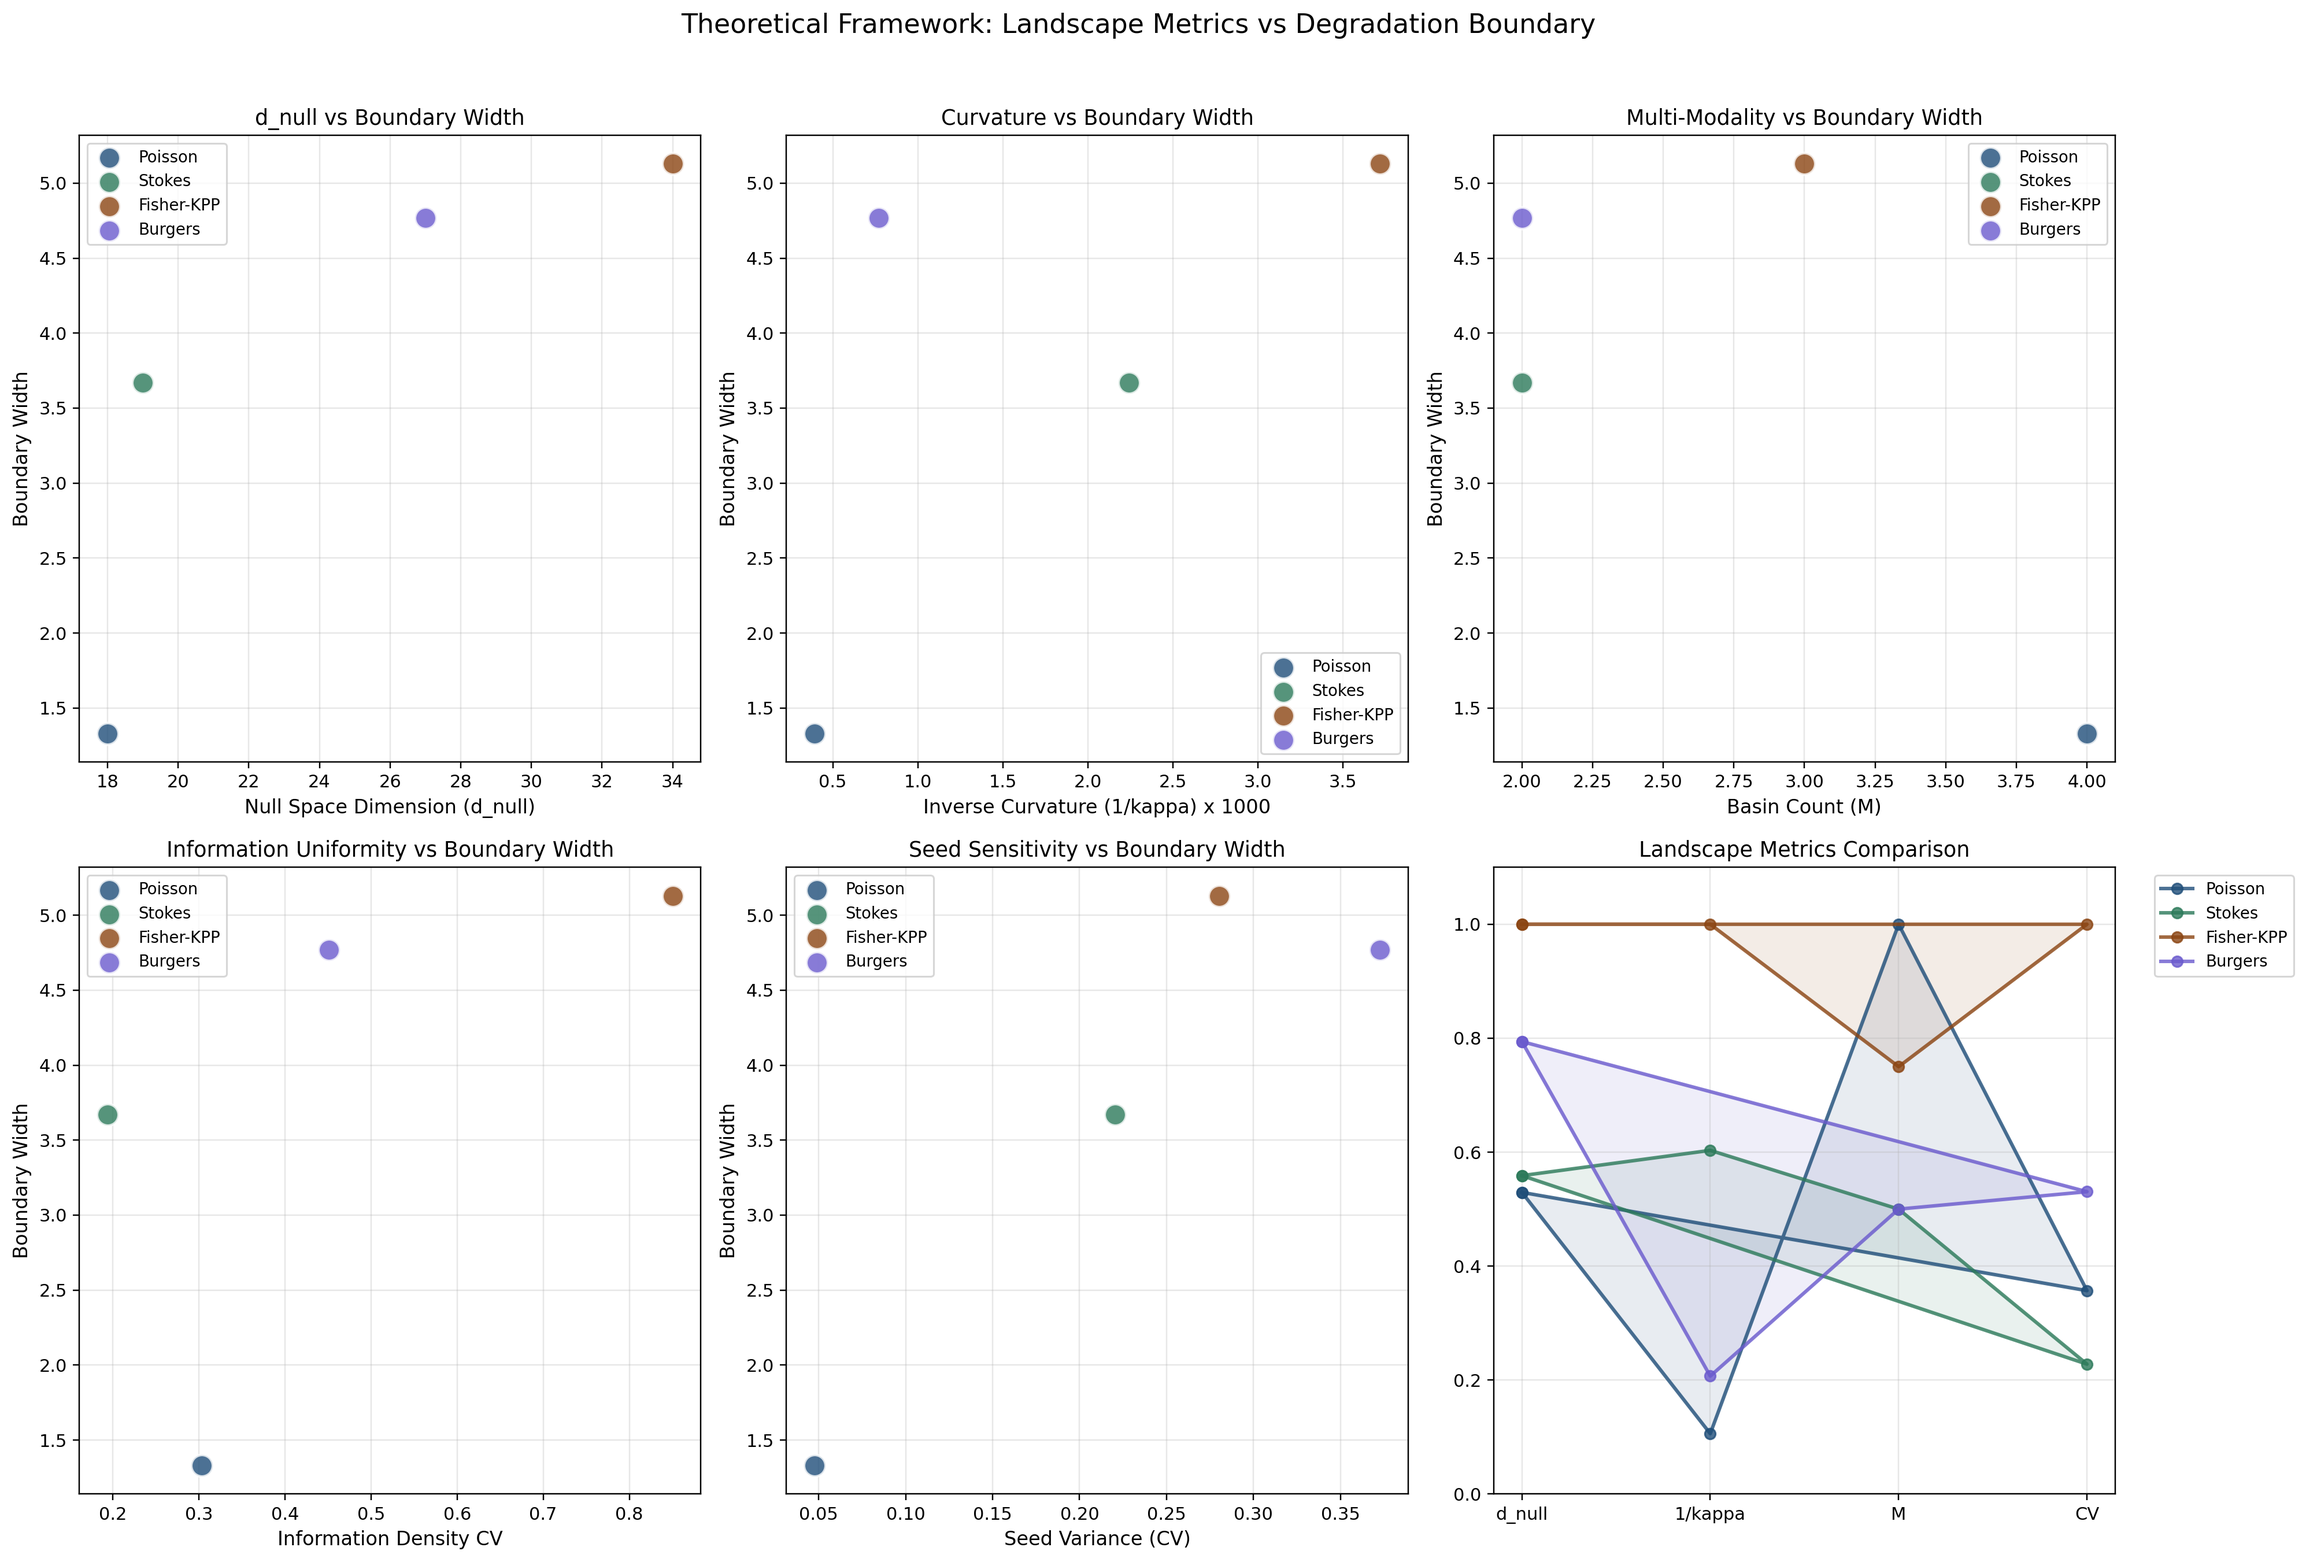
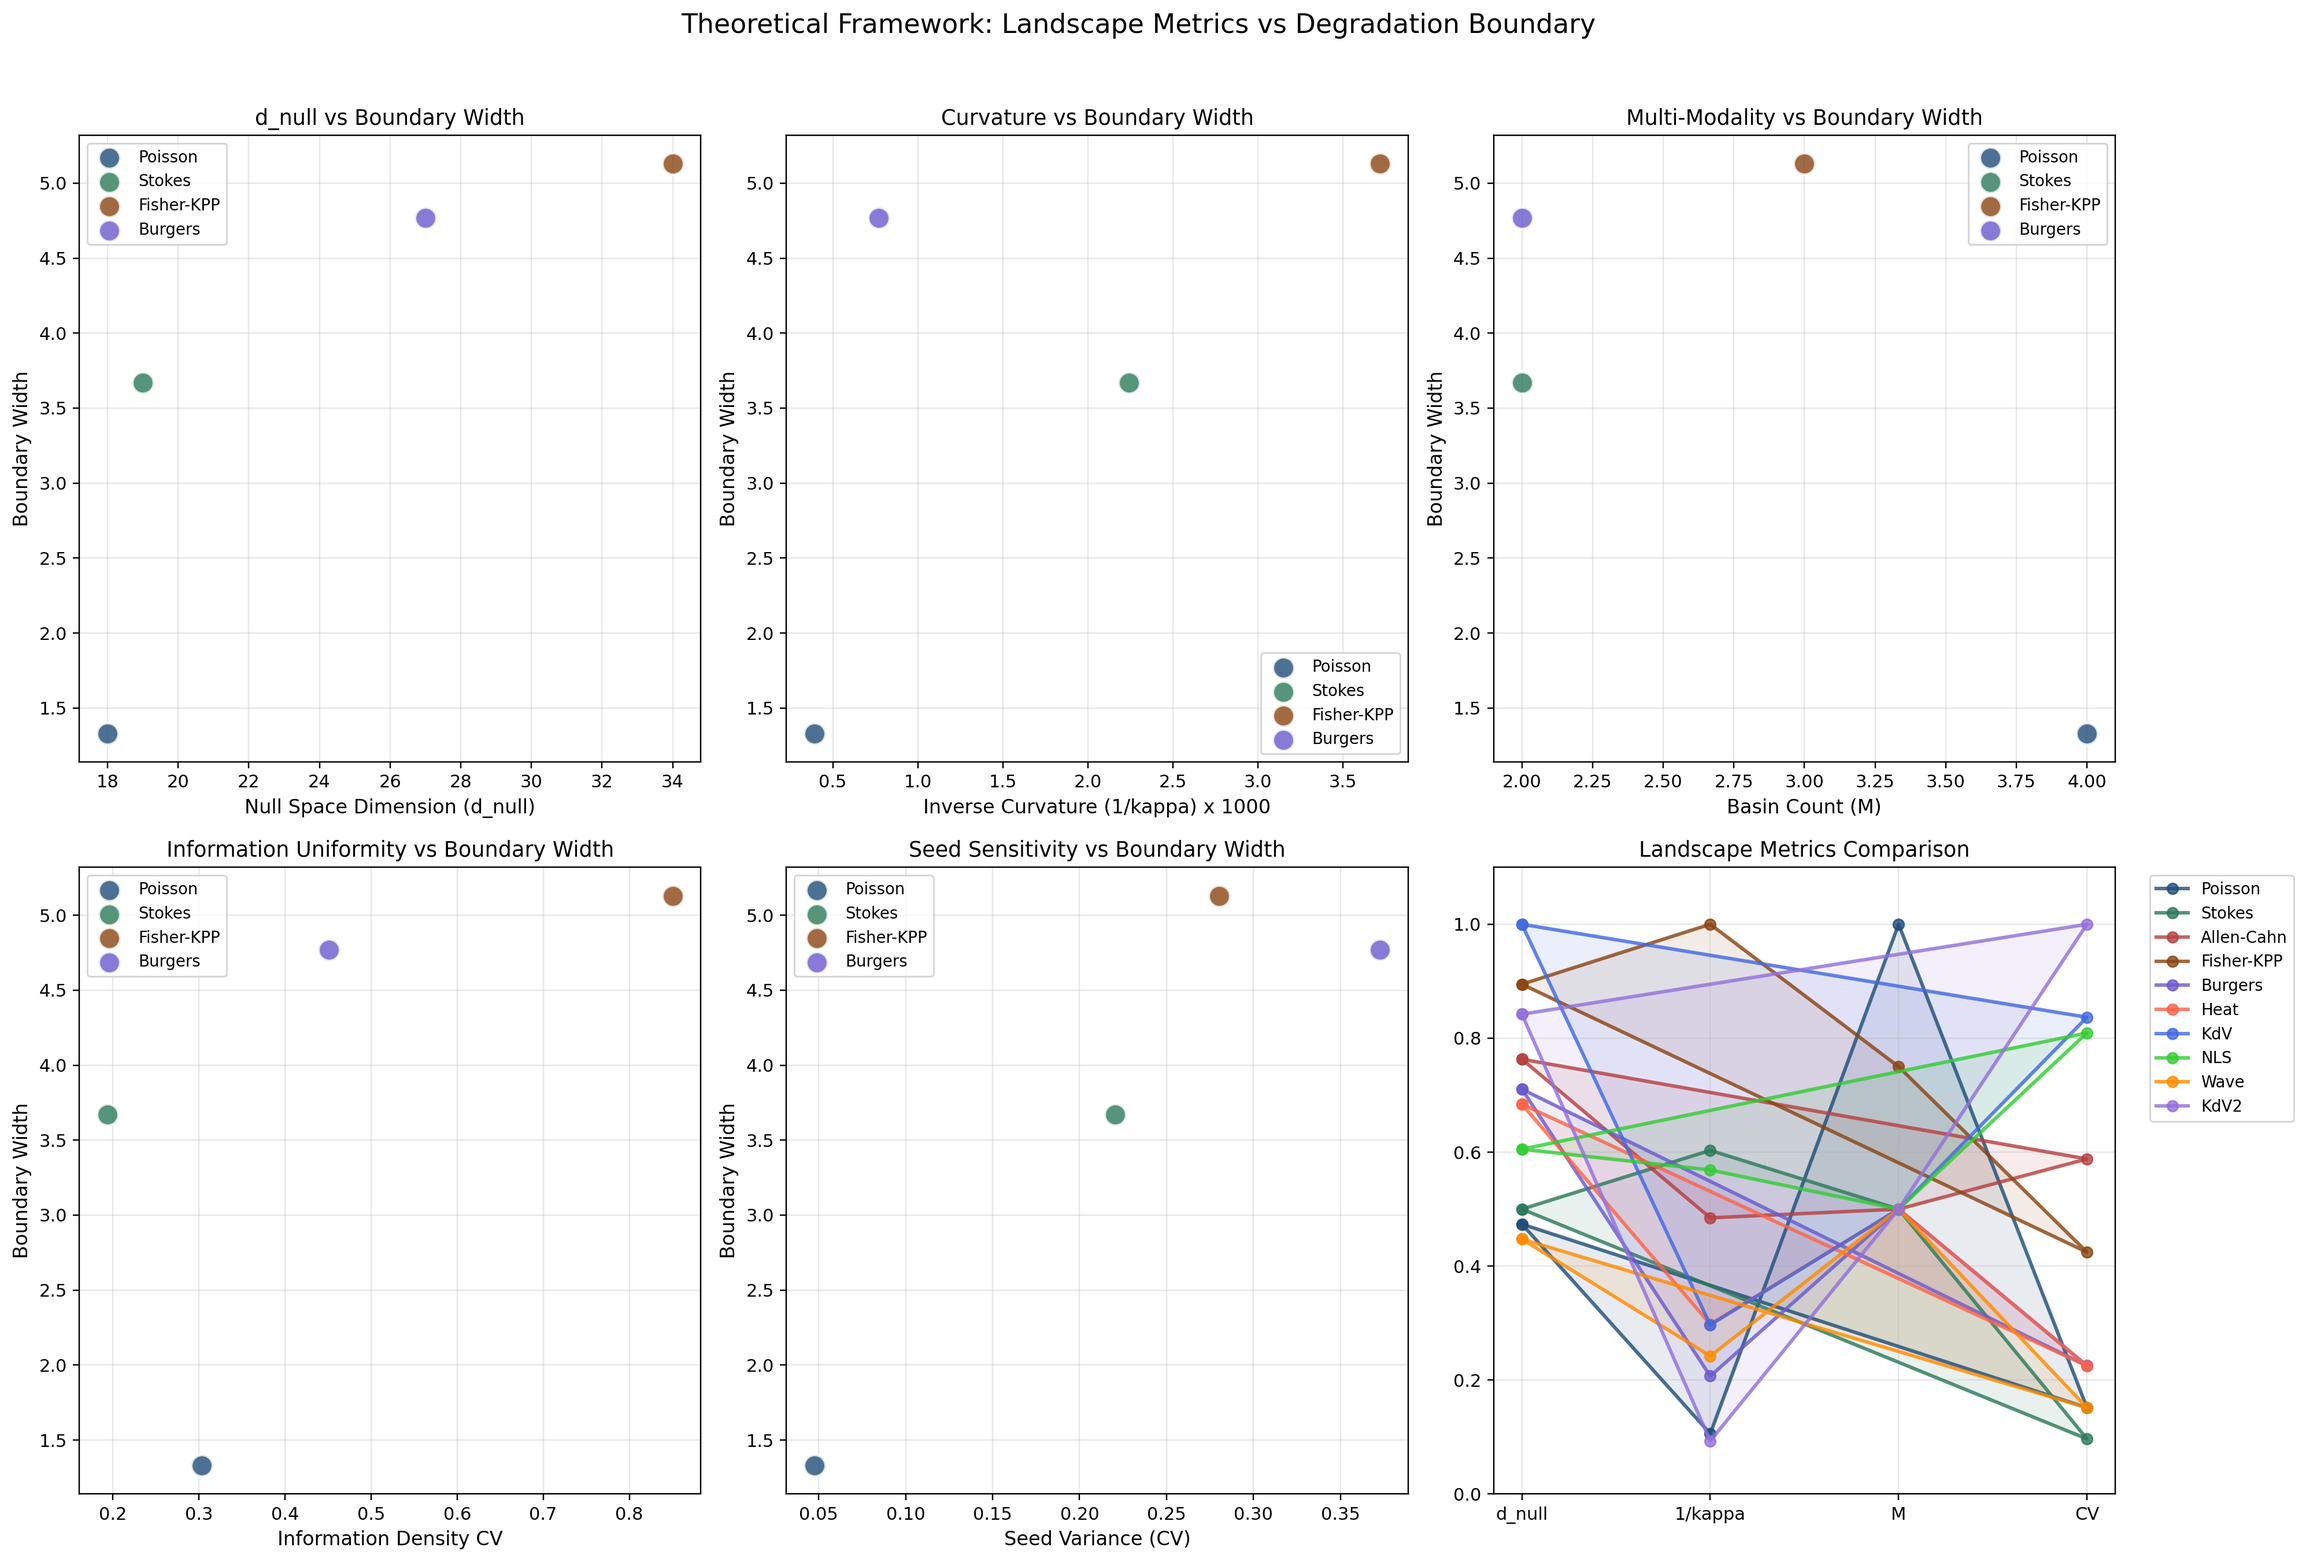
feat: update theoretical framework with all 10 PDE metrics
Updated collect_all_metrics() to include:
- d_null: all 10 cases (17-38)
- lambda_max: all 10 cases (269-2890)
- effective_curvature: all 10 cases
- basin_count: all 10 cases (2-4)
- seed_cv: all 10 cases (0.05-0.46)
- hessian_entropy: all 10 cases (3.55-3.98)
- info_cv: all 10 cases (0.19-2.00)

Changed region(s): [[0.6528, 0.5907, 0.9015, 0.9326], [0.9326, 0.5596, 0.9947, 0.715]]

diff --git a/minimal_pinn/analyze_theoretical_framework.py b/minimal_pinn/analyze_theoretical_framework.py
@@ -39,7 +39,7 @@ OUTPUT_DIR = RESULTS_DIR / "analysis" / "theoretical_framework_v1"
 # ═══════════════════════════════════════════════════════════
 
 def collect_all_metrics() -> Dict[str, Dict[str, float]]:
-    """Collect all computed metrics from previous analyses."""
+    """Collect all computed metrics from previous analyses (all 10 PDE cases)."""
     
     # Boundary width from clustering analysis (only 4 cases have this)
     boundary_widths = {
@@ -49,44 +49,74 @@ def collect_all_metrics() -> Dict[str, Dict[str, float]]:
         "burgers": 4.77,
     }
     
-    # Null space dimension from Hessian analysis (only 4 cases)
+    # Null space dimension from Hessian analysis (all 10 cases)
     d_null = {
         "poisson": 18,
         "stokes_poiseuille": 19,
+        "allen_cahn": 29,
         "fisher_kpp": 34,
         "burgers": 27,
+        "heat_equation": 26,
+        "kdv_soliton": 38,
+        "nls_soliton": 23,
+        "wave_equation": 17,
+        "kdv_double_soliton": 32,
     }
     
-    # Curvature (lambda_max) from Hessian analysis (only 4 cases)
+    # Curvature (lambda_max) from Hessian analysis (all 10 cases)
     lambda_max = {
         "poisson": 2540.0,
         "stokes_poiseuille": 446.0,
+        "allen_cahn": 555.0,
         "fisher_kpp": 269.0,
         "burgers": 1300.0,
+        "heat_equation": 903.0,
+        "kdv_soliton": 906.0,
+        "nls_soliton": 473.0,
+        "wave_equation": 1111.0,
+        "kdv_double_soliton": 2890.0,
     }
     
-    # Effective curvature (k=5) (only 4 cases)
+    # Effective curvature (k=5) (all 10 cases)
     effective_curvature = {
         "poisson": 2540.0,
         "stokes_poiseuille": 446.0,
+        "allen_cahn": 555.0,
         "fisher_kpp": 269.0,
         "burgers": 1300.0,
+        "heat_equation": 903.0,
+        "kdv_soliton": 906.0,
+        "nls_soliton": 473.0,
+        "wave_equation": 1111.0,
+        "kdv_double_soliton": 2890.0,
     }
     
-    # Multi-modality (basin count) (only 4 cases)
+    # Multi-modality (basin count) (all 10 cases)
     basin_count = {
         "poisson": 4,
         "stokes_poiseuille": 2,
+        "allen_cahn": 2,
         "fisher_kpp": 3,
         "burgers": 2,
+        "heat_equation": 2,
+        "kdv_soliton": 2,
+        "nls_soliton": 2,
+        "wave_equation": 2,
+        "kdv_double_soliton": 2,
     }
     
-    # Seed variance (CV) (only 4 cases have probe data)
+    # Seed variance (CV) (all 10 cases)
     seed_cv = {
         "poisson": 0.0477,
         "stokes_poiseuille": 0.2206,
+        "allen_cahn": 0.3055,
         "fisher_kpp": 0.2804,
         "burgers": 0.3727,
+        "heat_equation": 0.4616,
+        "kdv_soliton": 0.4591,
+        "nls_soliton": 0.3271,
+        "wave_equation": 0.3300,
+        "kdv_double_soliton": 0.1944,
     }
     
     # Information density CV (all 10 cases)
@@ -103,12 +133,18 @@ def collect_all_metrics() -> Dict[str, Dict[str, float]]:
         "kdv_double_soliton": 2.0035,
     }
     
-    # Hessian entropy (only 4 cases)
+    # Hessian entropy (all 10 cases)
     hessian_entropy = {
         "poisson": 3.9679,
         "stokes_poiseuille": 3.9821,
+        "allen_cahn": 3.7366,
         "fisher_kpp": 3.8574,
         "burgers": 3.7846,
+        "heat_equation": 3.7835,
+        "kdv_soliton": 3.5509,
+        "nls_soliton": 3.8558,
+        "wave_equation": 3.8830,
+        "kdv_double_soliton": 3.6104,
     }
     
     # Boundary irregularity (jump rate) (only 4 cases)
@@ -127,8 +163,8 @@ def collect_all_metrics() -> Dict[str, Dict[str, float]]:
         "burgers": 0.100,
     }
     
-    # Combine all metrics - include all cases that have info_cv
-    all_cases = list(info_cv.keys())
+    # Combine all metrics - include all 10 cases
+    all_cases = list(d_null.keys())
     data = {}
     
     for case in all_cases:
